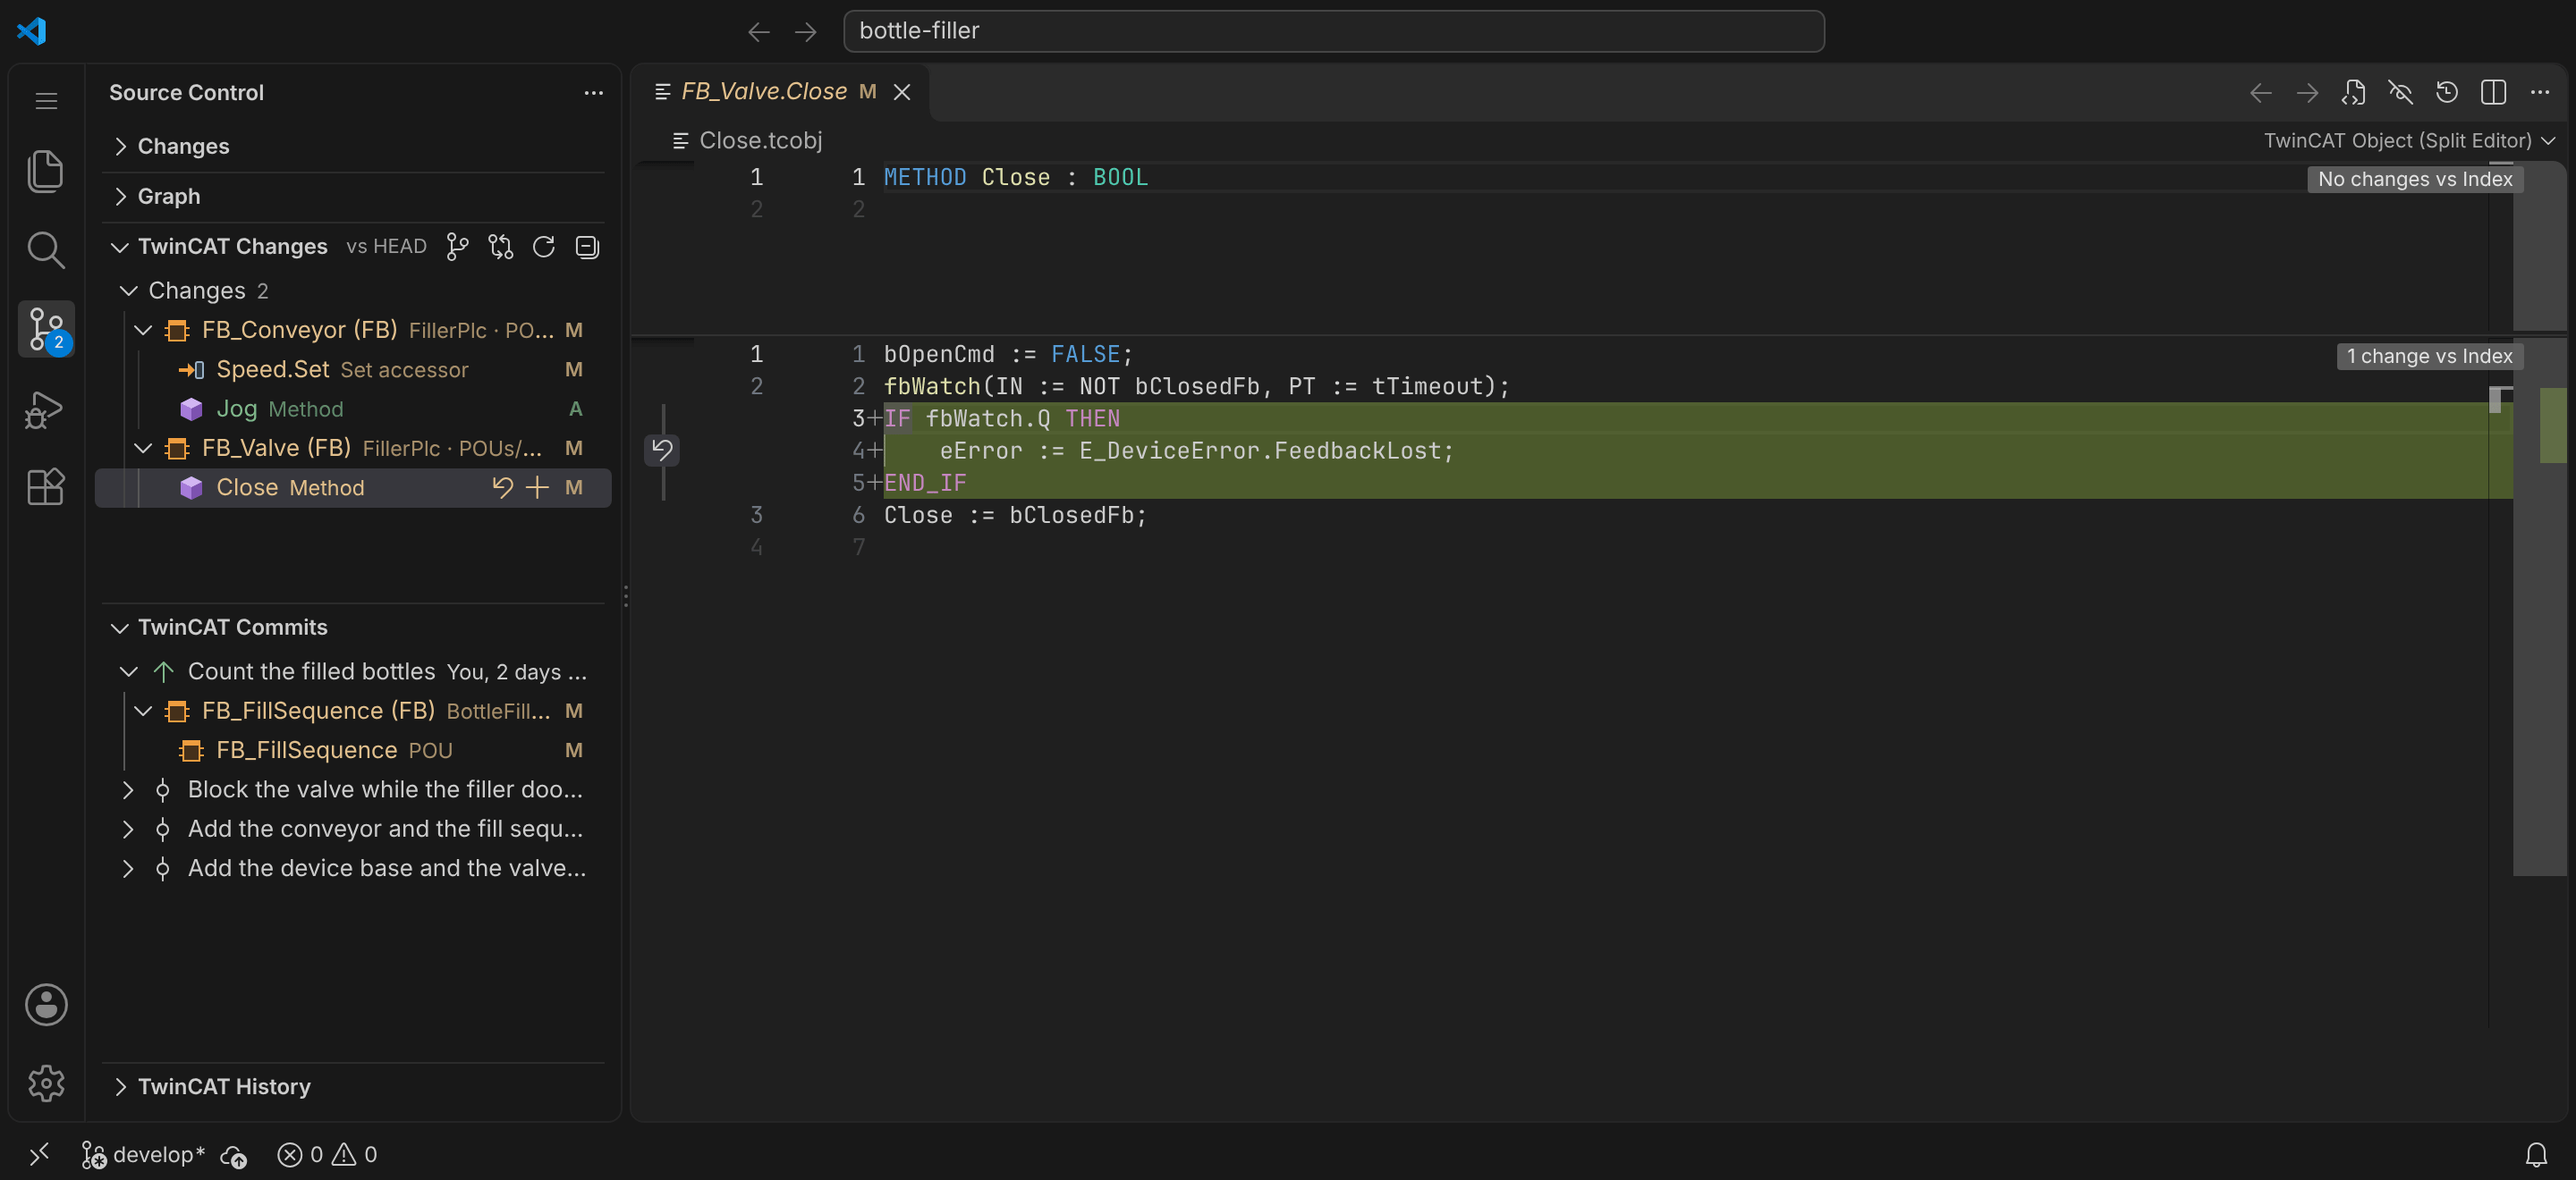
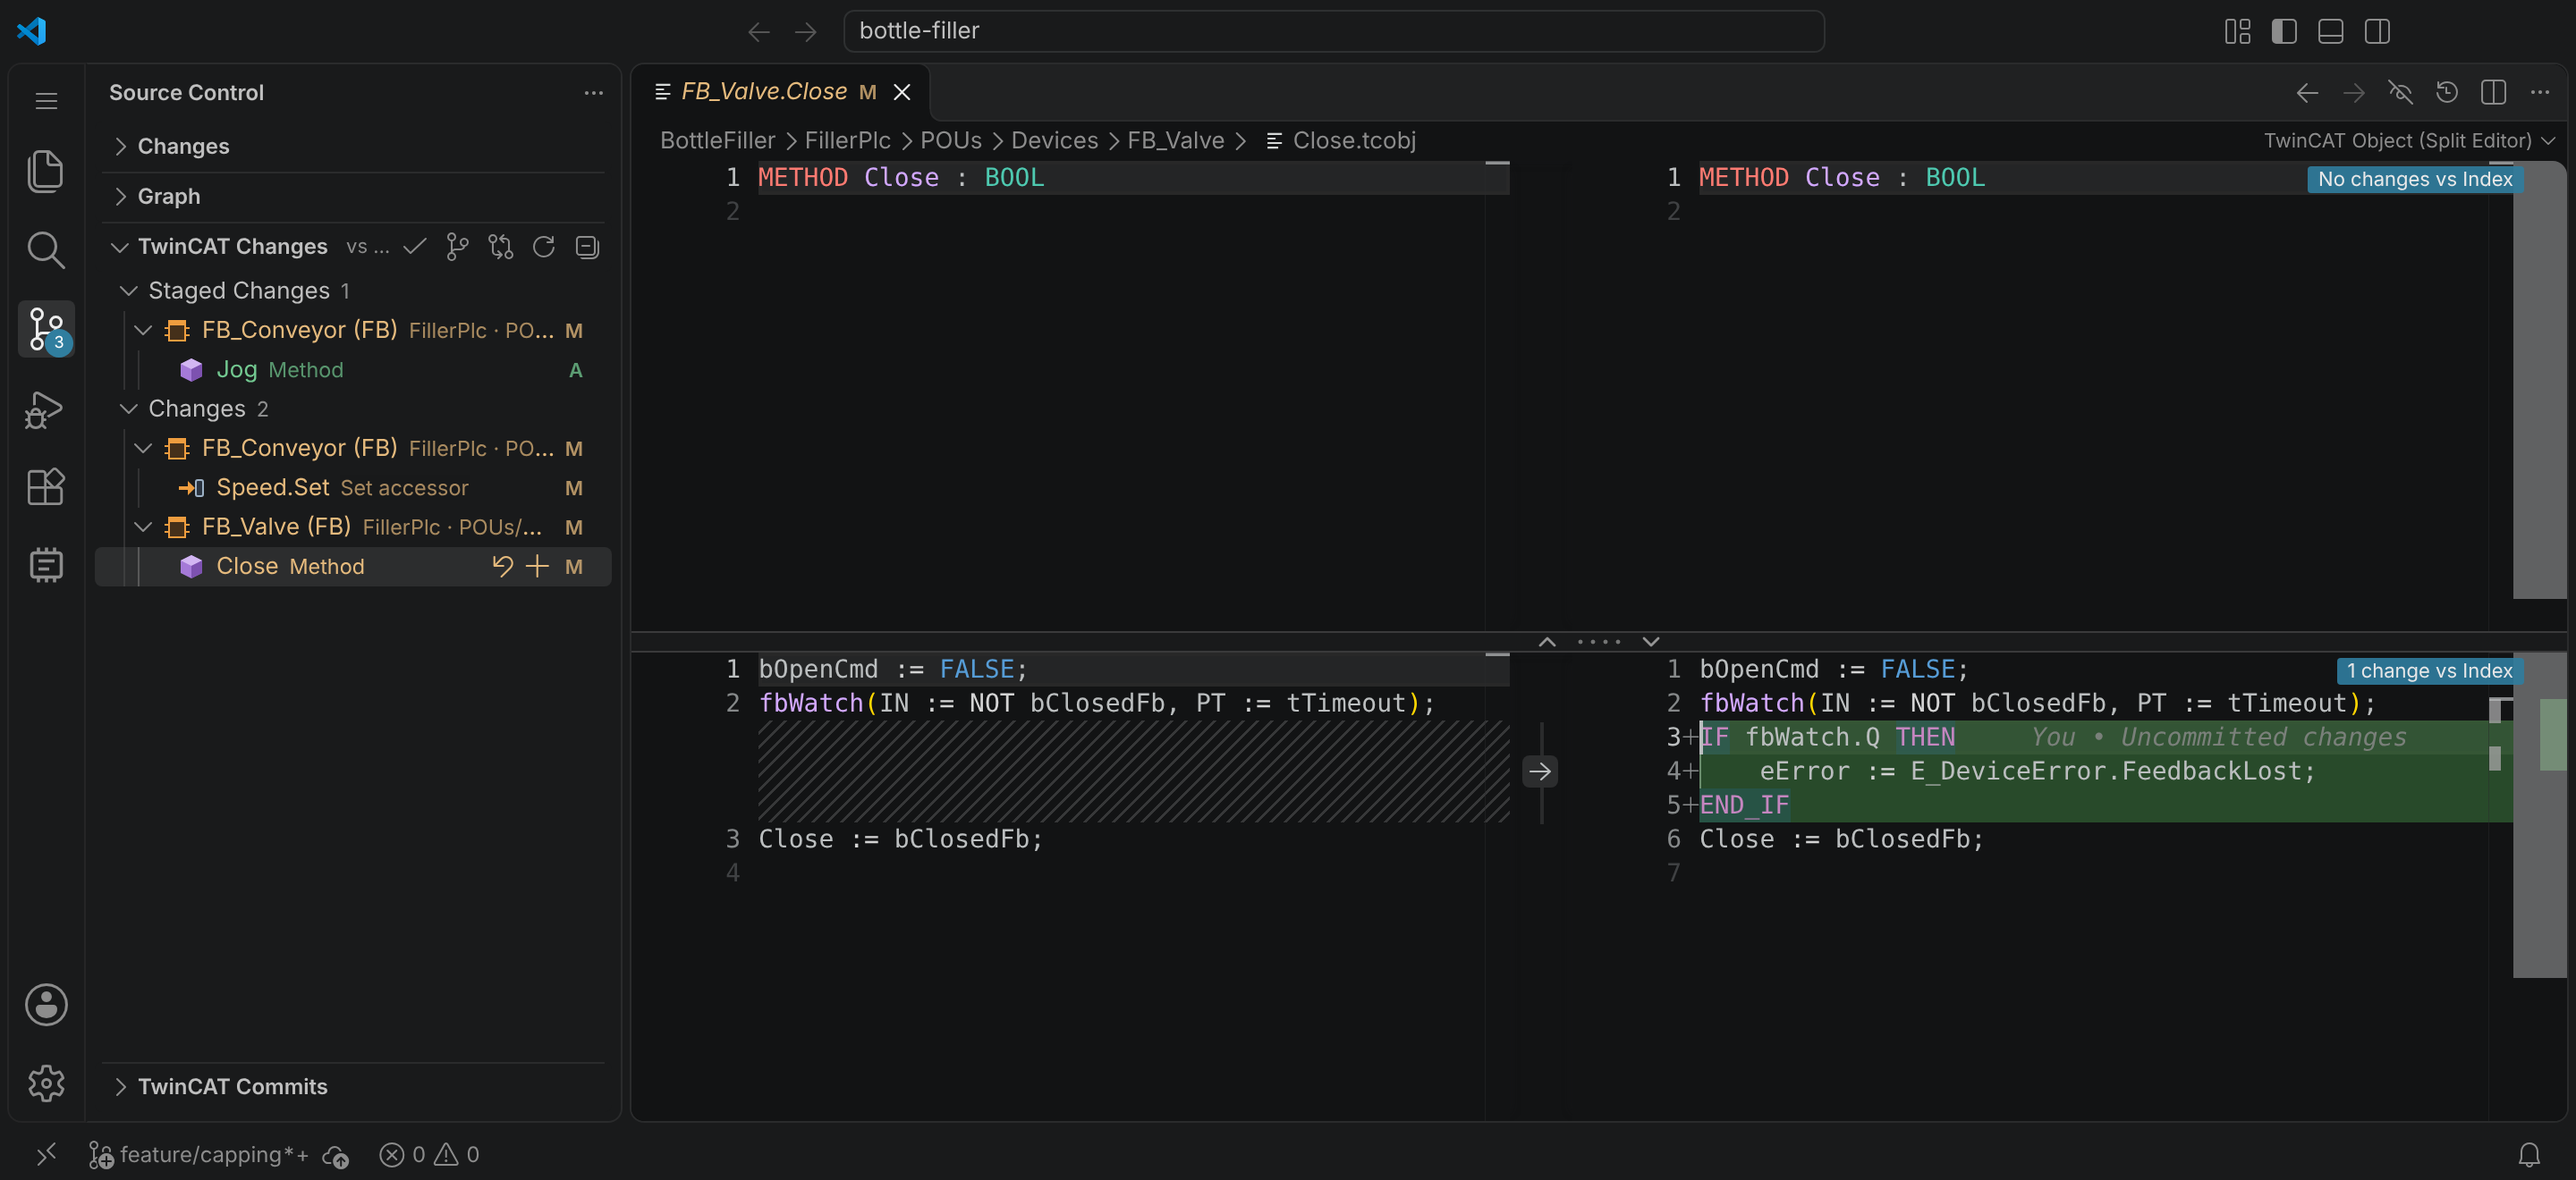
README screenshots of the new layout
vscode-overview, vscode-language, vscode-changes and vscode-commits taken
again with the TwinCAT view container (Solution tree, History), the
Solution view's title bar, the tree breadcrumbs (BottleFiller > FillerPlc >
POUs > ...) and the Source Control views without TwinCAT History. Same
sizes as before (2880 px wide, VS Code 1.145 at 2x, Dark Modern), taken from
the packaged .vsix.

Claude-Session: https://claude.ai/code/session_01ANgqBSzfX4sgCDBGSf8Ha1

diff --git a/README.md b/README.md
@@ -6,7 +6,7 @@ Implementation**, and brings Structured Text language features and git views tha
 The code stays in the `.TcPOU`, `.TcDUT`, `.TcGVL` and `.TcIO` XML files, and saving writes back only
 the sections you edited.
 
-![The TwinCAT tree beside the split editor of a function block: the Declaration above the Implementation](docs/images/vscode-overview.png)
+![The Solution tree of the TwinCAT view container beside the split editor of a function block: the Declaration above the Implementation](docs/images/vscode-overview.png)
 
 <!-- browser-only:start -->
 A companion [browser extension](#browser-extension) shows the TwinCAT files of a GitHub pull request or a
@@ -473,7 +473,7 @@ Rename (F2) changes the uses too, in every PLC project of the workspace.
 These work in both panes and in notebook cells. They come from a parser of the TwinCAT dialect
 (`EXTENDS`, `IMPLEMENTS`, `THIS^`, `SUPER^`, properties, `REFERENCE TO`, ...).
 
-![Completion after fbConveyor. lists the methods of FB_Conveyor, and the call with its arguments](docs/images/vscode-language.png)
+![Completion after fbConveyor.St lists the methods of FB_Conveyor, and their calls](docs/images/vscode-language.png)
 
 <details>
 <summary>Details</summary>
